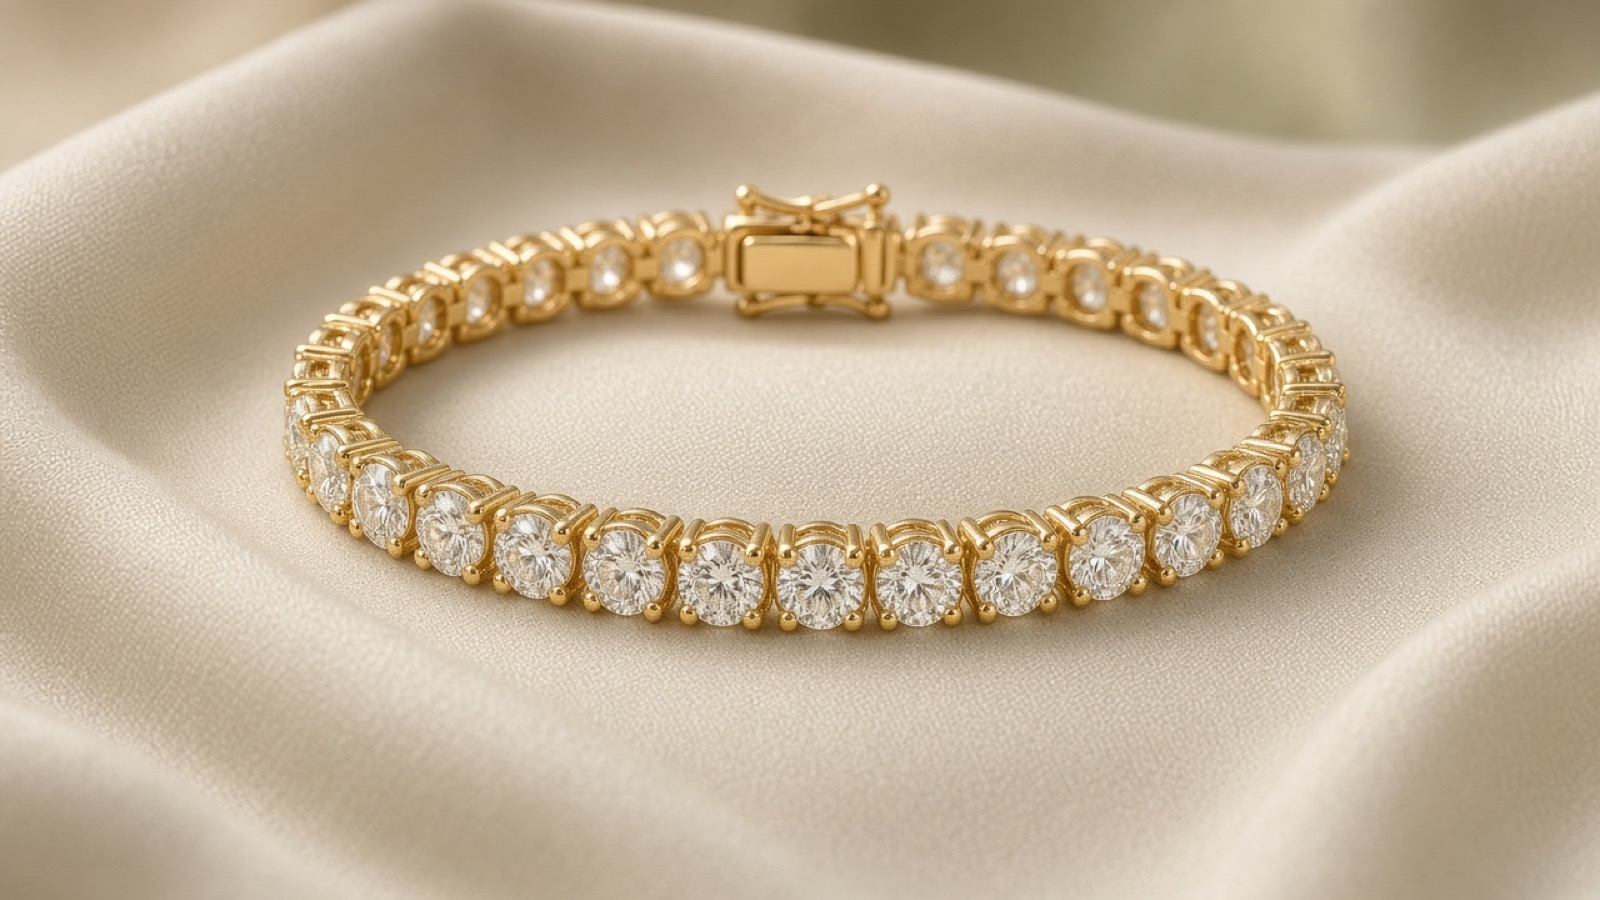
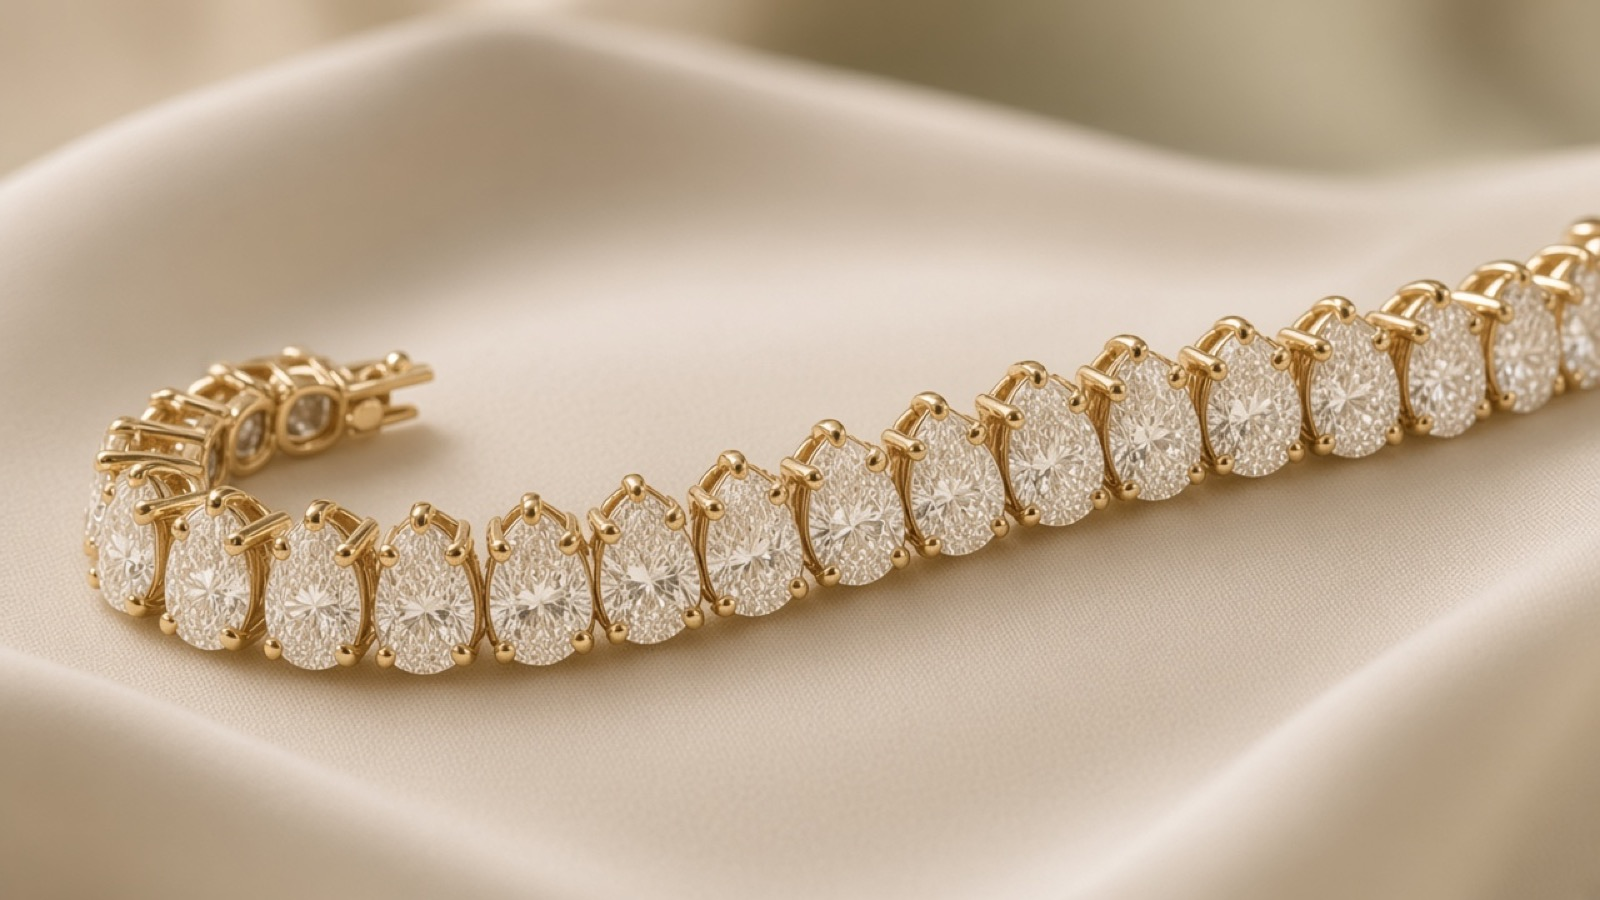
Add first real inventory: pear tennis bracelet.
Replace the generic bracelet placeholder with cream-palette catalog shots of the client's pear-cut piece (full + detail, tag removed) so the live catalog shows actual stock.

diff --git a/src/data/catalog.ts b/src/data/catalog.ts
@@ -80,11 +80,18 @@ export const catalogPieces: CatalogPiece[] = [
     alt: 'Three gold diamond rings on a cream stone surface',
   },
   {
-    id: 'bracelet',
-    title: 'Bracelet line',
+    id: 'bracelet-pear',
+    title: 'Pear tennis bracelet',
     line: 'bracelets',
     image: 'images/bracelet.jpg',
-    alt: 'Gold diamond tennis bracelet on cream fabric',
+    alt: 'Yellow gold pear-cut diamond tennis bracelet on cream silk',
+  },
+  {
+    id: 'bracelet-pear-detail',
+    title: 'Pear tennis — detail',
+    line: 'bracelets',
+    image: 'images/bracelet-pear-detail.jpg',
+    alt: 'Close-up of pear-cut diamonds in yellow gold tennis bracelet',
   },
   {
     id: 'earrings',
